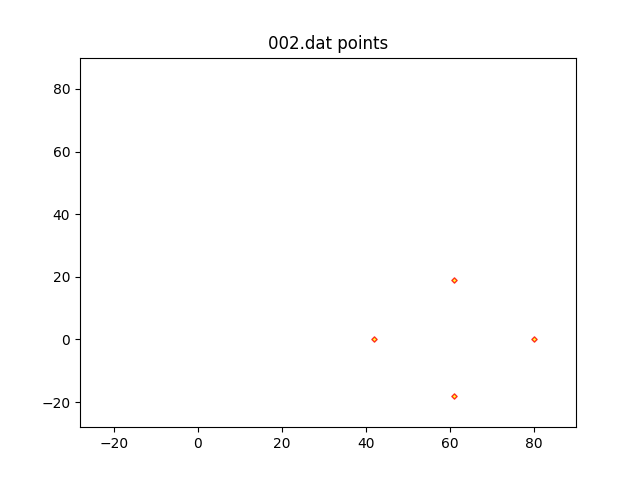
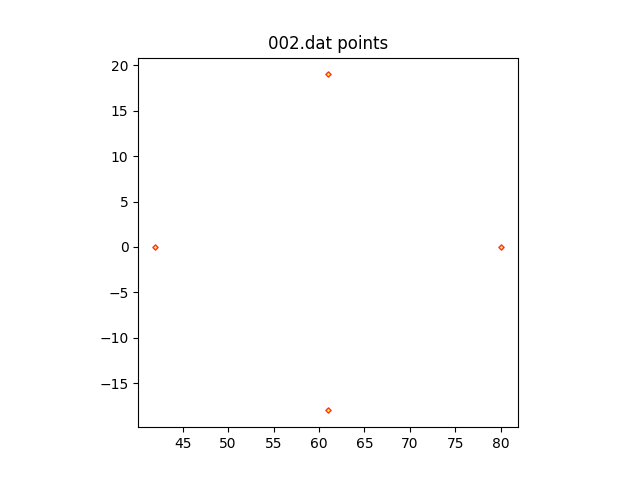
fixed errors

diff --git a/first_part/main.py b/first_part/main.py
@@ -15,8 +15,12 @@ def do_first_task(files):
         R_max = max(max(x), max(y))
         R_min = min(min(x), min(y))
         plt.scatter(x,y, s=7, marker="D", c='yellow', linewidths=1, edgecolors='red', alpha=0.8)
-        plt.ylim([R_min - 10, R_max + 10])
-        plt.xlim([R_min - 10, R_max +10])
+        plt.gca().set_aspect('equal', adjustable='box')
+
+        #plt.ylim([R_min - 10, R_max + 10])
+        #plt.xlim([R_min - 10, R_max +10])
+
+
         #plt.ylim([min(y), max(y)])
         #plt.xlim([min(x), max(x)])
         #plt.axis('equal')
